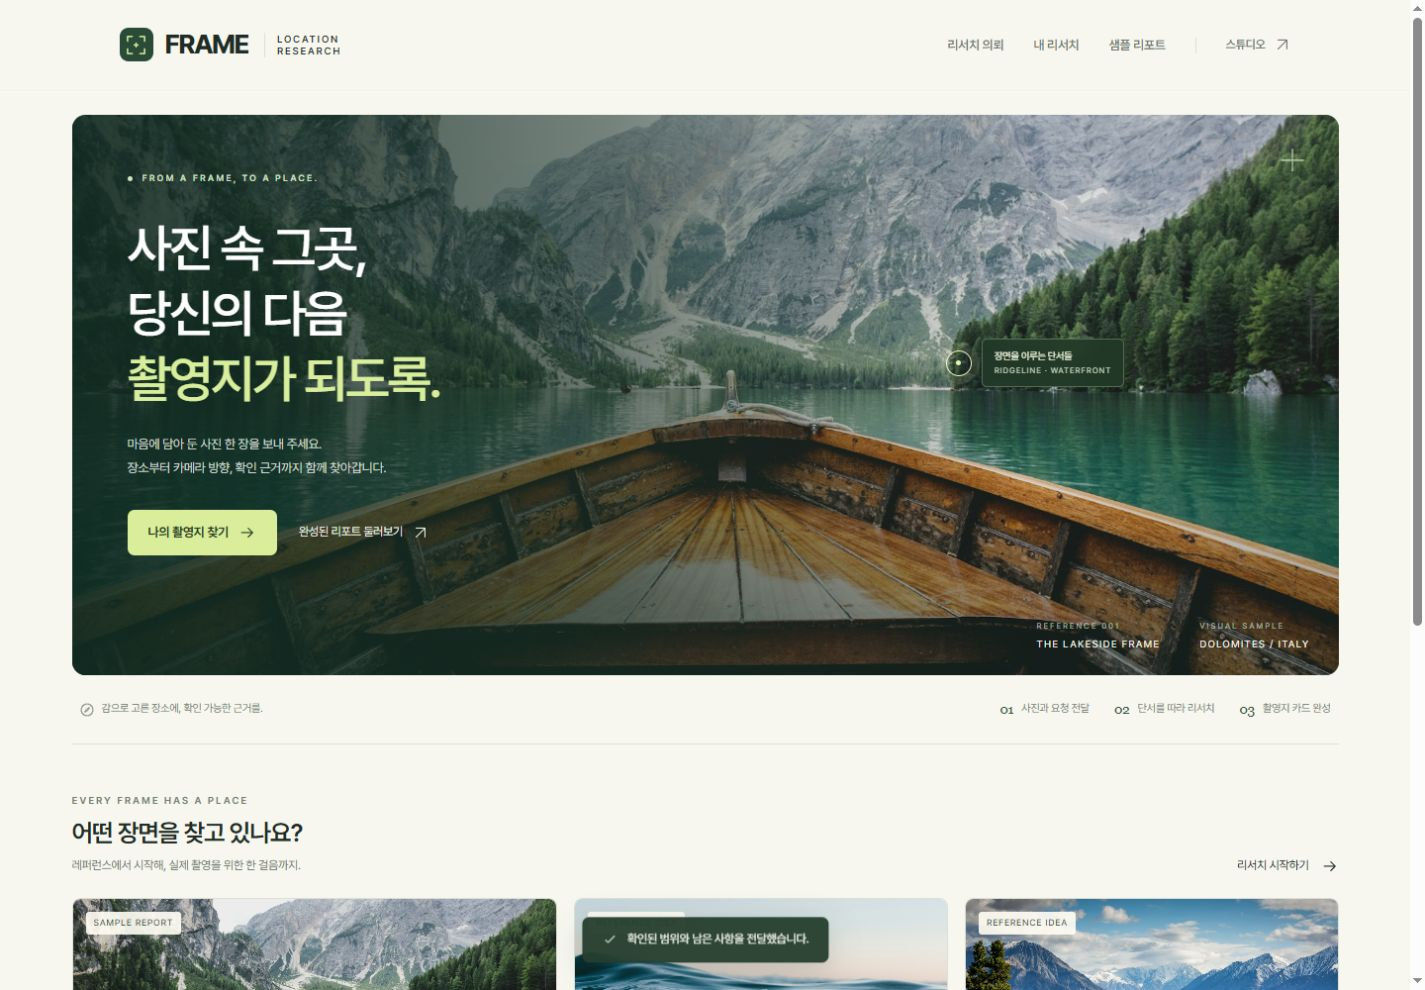
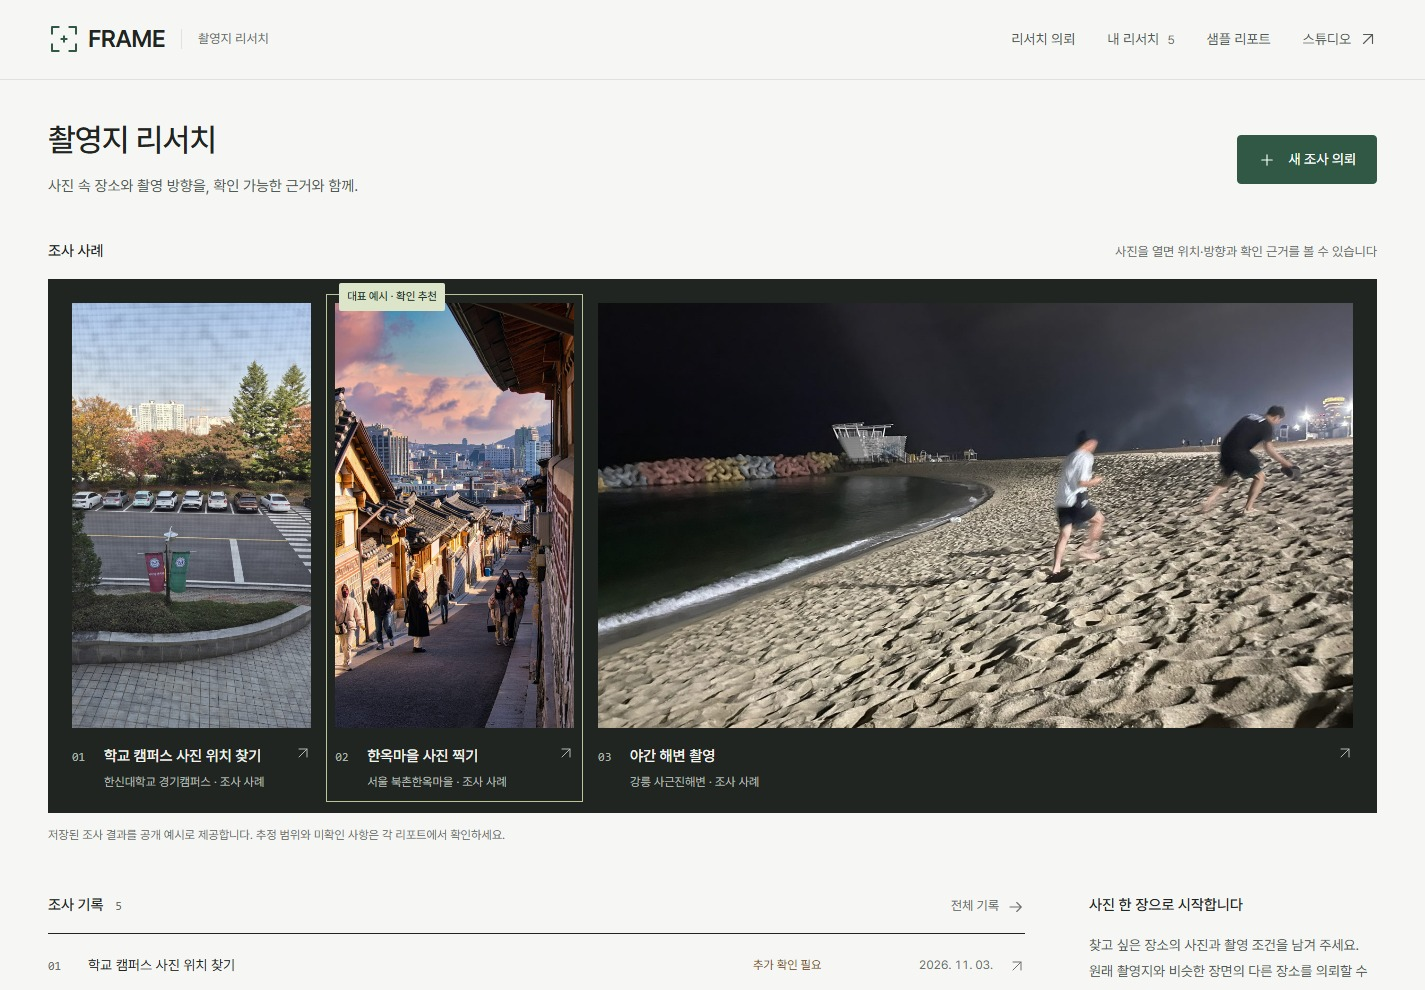
docs: refresh README screenshots and document photographer features

diff --git a/README.md b/README.md
@@ -2,7 +2,7 @@
 
 **레퍼런스 사진 한 장으로 촬영 후보를 찾고, 위치·방향·판단 근거를 리포트에서 검토하는 로컬 웹 프로토타입입니다.**
 
-![FRAME 홈 화면과 촬영지 조사 시작 버튼](docs/assets/frame-home.jpg)
+![FRAME 홈 화면의 공개 조사 사례 연락판과 조사 기록](docs/assets/frame-home.jpg)
 
 ## Service Overview
 
@@ -25,9 +25,9 @@
 
 ### 사진으로 리서치 의뢰
 
-사진을 올리고 원본 촬영지 또는 비슷한 장면의 후보를 요청합니다. 찾을 지역·촬영 목적·확인할 조건을 함께 적을 수 있고, 제출 전에 로컬 실행 환경을 확인합니다. [앱 사용법](apps/frame/README.md)
+사진을 올리고 원본 촬영지 또는 비슷한 장면의 후보를 요청합니다. 업로드 직후 브라우저에서 EXIF(기종·화각·조리개·셔터·ISO·촬영시각·GPS)를 즉시 판독해 안내하며, 찾을 지역·촬영 예정일(골든아워 계산)·보유 렌즈 화각대·희망 광선을 함께 적을 수 있습니다. [앱 사용법](apps/frame/README.md)
 
-![FRAME 로컬 의뢰 화면의 사진 업로드, 실행 환경과 리서치 유형 선택](docs/assets/frame-request-local.png)
+![FRAME 로컬 의뢰 화면의 사진 업로드, 즉시 EXIF 판독, 실행 환경과 촬영 조건 선택](docs/assets/frame-request-local.png)
 
 ### 실시간 진행 기록과 중단된 조사 복구
 
@@ -45,11 +45,11 @@
 
 ### 근거를 검토할 수 있는 촬영지 리포트
 
-장소 대표점과 카메라 추정점을 구분하고, 위치 추정 반경·촬영 방위각·수평 시야각과 그 근거를 항목별로 보여 줍니다. 리포트에서 비교 이미지와 출처를 열어 보고, 스튜디오에서 추가 근거와 판단을 보완할 수 있습니다. 결과 JSON·PDF와 의뢰 백업을 제공합니다. [리포트 구성 코드](apps/frame/dist/lib/research-report.js) · [실제 조사 기록](research/frame-runs/README.md)
+장소 대표점과 카메라 추정점을 구분하고, 위치 추정 반경·촬영 방위각·수평 시야각과 그 근거를 항목별로 보여 줍니다. 사진의 광학 정보(화각·조리개·셔터·ISO), 촬영 시점(POV·고도·피사체 거리), 촬영 시각·태양 방향·골든아워를 출처 배지(`EXIF 확인`·`기하 계산`·`태양 계산`·`시각 참고`·`미확인`)와 함께 구분 표시하며, 위성 오버레이에서 **화각 시뮬레이터(24/35/50/85mm)**와 **태양 광선 슬라이더**, 출사 링크(카카오맵·네이버지도·스트리트뷰·GPX 핀)를 제공합니다. 결과 JSON·PDF와 의뢰 백업을 지원합니다. [리포트 구성 코드](apps/frame/dist/lib/research-report.js) · [실제 조사 기록](research/frame-runs/README.md)
 
-![FRAME 샘플 리포트에 표시된 레퍼런스 사진, 위치 유형, 예시 반경과 촬영 방향](docs/assets/frame-report-preview.jpg)
+![FRAME 리포트에 표시된 레퍼런스 사진, 추정 위치·방향, EXIF 광학·시점·빛 정보와 출사 링크](docs/assets/frame-report-preview.jpg)
 
-*화면 구성용 샘플 리포트입니다. 사진·좌표·방향 수치는 시연용입니다.* [전체 화면](docs/assets/frame-report.jpg) · [샘플 사진 출처](apps/frame/ASSETS.md)
+*공개 조사 사례(한신대학교 경기캠퍼스) 리포트입니다. 확인된 EXIF와 추정 위치·방향·일조 정보를 함께 표시합니다.* [전체 화면 (위성 화각·태양 광선 시뮬레이터 포함)](docs/assets/frame-report.jpg) · [공개 사례 출처](apps/frame/ASSETS.md)
 
 ## System Architecture
 
@@ -103,7 +103,7 @@ npm run check
 npm test
 ```
 
-저장소 정리 시점에 Node 테스트 21개와 Python 테스트 7개를 통과했습니다. 모의 CLI와 로컬 HTTP 응답을 사용해 작업 관리·SSE·결과 파일·전송 처리를 점검했습니다. 위치 판단의 근거와 한계는 사례별 기록에 정리했습니다. [자동 테스트 범위](docs/validation.md)
+저장소 정리 시점에 Node 테스트 25개와 Python 테스트 7개를 통과했습니다. 모의 CLI와 로컬 HTTP 응답을 사용해 작업 관리·SSE·결과 파일·전송 처리·EXIF 판독·NOAA 태양 계산을 점검했습니다. 위치 판단의 근거와 한계는 사례별 기록에 정리했습니다. [자동 테스트 범위](docs/validation.md)
 
 ## Repository Guide
 
